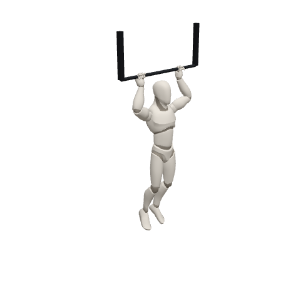
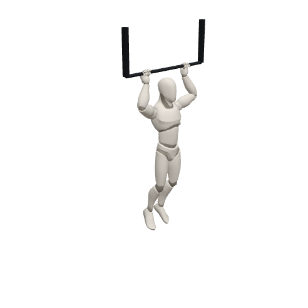
Arregla lo que salió de revisar los 50 ejercicios
LA CABEZA SE METÍA EN EL PECHO EN DIEZ EJERCICIOS, y el arreglo va en la
cinemática, no en los JSON: la flexión del cuello es relativa al TRONCO, y
eso se olvida en cuanto el tronco se inclina. En una plancha el tronco ya
está a 89°, así que unos inocentes -25° de cuello suman 114 y la cabeza
acaba dentro de las costillas. Ahora se limita el ángulo de la cabeza CON LA
VERTICAL DEL MUNDO a 95° —mirarse el esternón—, que con el tronco a 89 deja
6° de margen, justo lo que le queda a alguien en plancha. Se recorta en vez
de fallar, porque la pose no está mal escrita: lo natural es pensar en la
cabeza mirando al suelo, y eso ya lo da el tronco.

Afectaba a flexiones, flexiones diamante, plancha frontal, perro-pájaro,
peso muerto a una pierna (-41° de cuello sobre 82 de tronco), buenos días,
pájaros, los dos remos y el peso muerto rumano.

EL CABLE DE LA POLEA ATRAVESABA LA CABEZA en los tres jalones: el ancla
estaba en z≈0.1, prácticamente encima del maniquí. Llevándola por delante
—0.42 y 0.46— el cable pasa donde pasa de verdad, del lado de la máquina.

Y seis posturas sueltas:

  · patada de tríceps: el brazo iba a -38° del tronco y la mancuerna
    acababa a la altura de la cabeza. Va PARALELO al tronco, así que -8.
  · elevación de talones, de pie y a una pierna: el talón subía 6 cm y no
    se distinguía de la posición baja. Ahora 11.
  · sentadilla con mancuernas: bajaba a 0.62 cuando la de barra baja a
    0.46. A 0.52 se parece a una sentadilla.
[…]

Changed region(s): [[0.3506, 0.0584, 0.6721, 0.7597]]

diff --git a/src/figura/cinematica.js b/src/figura/cinematica.js
@@ -280,10 +280,35 @@ export function aplicarPose(esq, pose, definicion = {}) {
   });
   for (const k of ['flexion', 'lateral', 'rotacion']) anotar(null, `columna.${k}`, pose.columna?.[k] ?? 0);
   const Ftorax = F;
-  const Fcuello = Ftorax.clone().multiply(rotacionTronco(pose.cuello));
+
+  /*
+   * LA CABEZA NO SE METE EN EL PECHO.
+   *
+   * La flexión del cuello es RELATIVA AL TRONCO, y eso se olvida en cuanto el tronco se inclina: en
+   * una plancha el tronco ya está a 89°, así que unos inocentes -25° de cuello suman 114° y la
+   * cabeza acaba dentro de las costillas. Se coló en diez ejercicios —flexiones, plancha, buenos
+   * días, peso muerto a una pierna, perro-pájaro…— y en todos se veía igual: un maniquí sin cuello.
+   *
+   * Lo que se limita es el ángulo de la cabeza CON LA VERTICAL DEL MUNDO, no la flexión escrita.
+   * Mirarse el esternón son unos 95° desde erguido, y de ahí no se pasa: con el tronco ya a 89 solo
+   * quedan 6° de margen, que es exactamente lo que le queda a alguien en posición de plancha.
+   *
+   * Se recorta en vez de fallar porque la pose no está "mal": lo natural al escribirla es pensar en
+   * la cabeza mirando al suelo, y eso ya lo da el tronco. Y se anota el valor RECORTADO, que es el
+   * que de verdad se ve.
+   */
+  const LIMITE_CABEZA = 95;
+  const inclinacionTronco = Math.acos(
+    Math.min(1, Math.max(-1, new Vector3(0, 1, 0).applyQuaternion(Ftorax).y)),
+  ) / GRAD;
+  const margenCuello = Math.max(0, LIMITE_CABEZA - inclinacionTronco);
+  const cuello = { ...(pose.cuello ?? {}) };
+  if ((cuello.flexion ?? 0) < -margenCuello) cuello.flexion = -margenCuello;
+
+  const Fcuello = Ftorax.clone().multiply(rotacionTronco(cuello));
   orientar(esq, huesos.cuello, Fcuello);
   orientar(esq, huesos.cabeza, Fcuello);
-  anotar(null, 'cuello.flexion', pose.cuello?.flexion ?? 0);
+  anotar(null, 'cuello.flexion', cuello.flexion ?? 0);
 
   const marcos = { mundo: new Quaternion(), pelvis: Fpelvis, torax: Ftorax };
 
